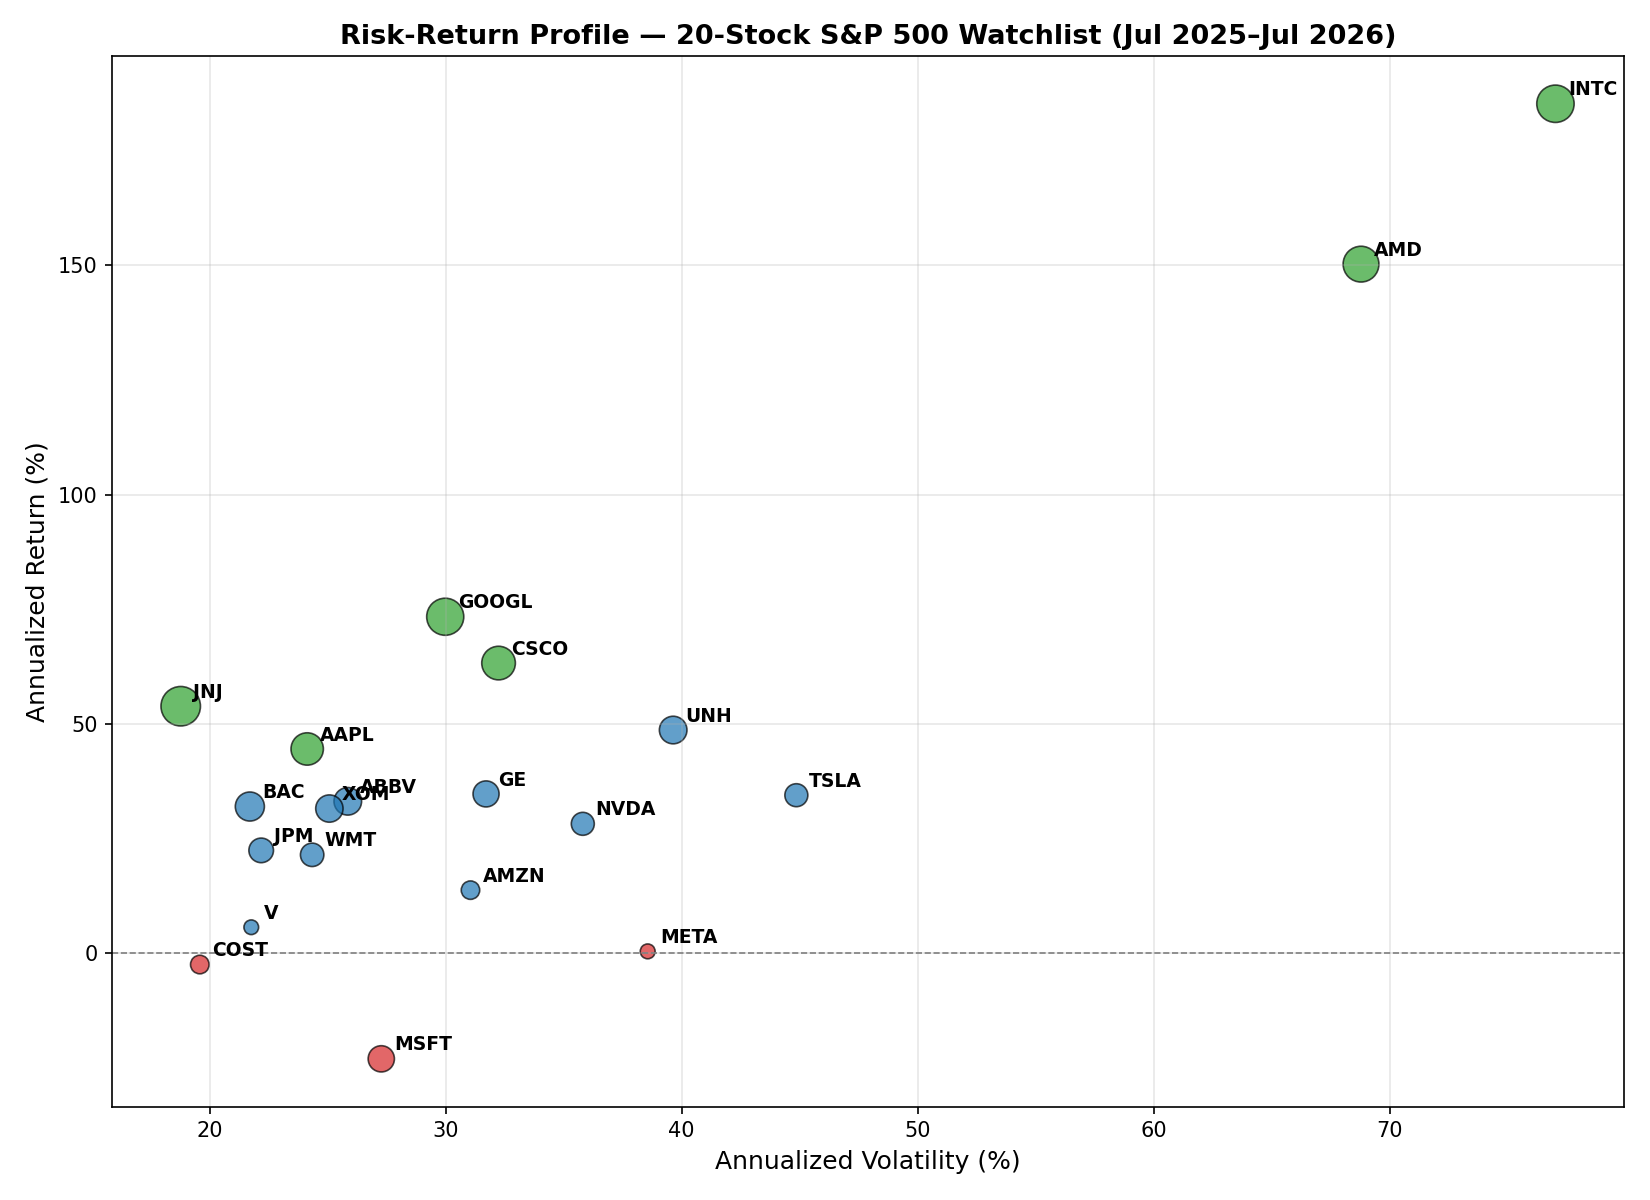
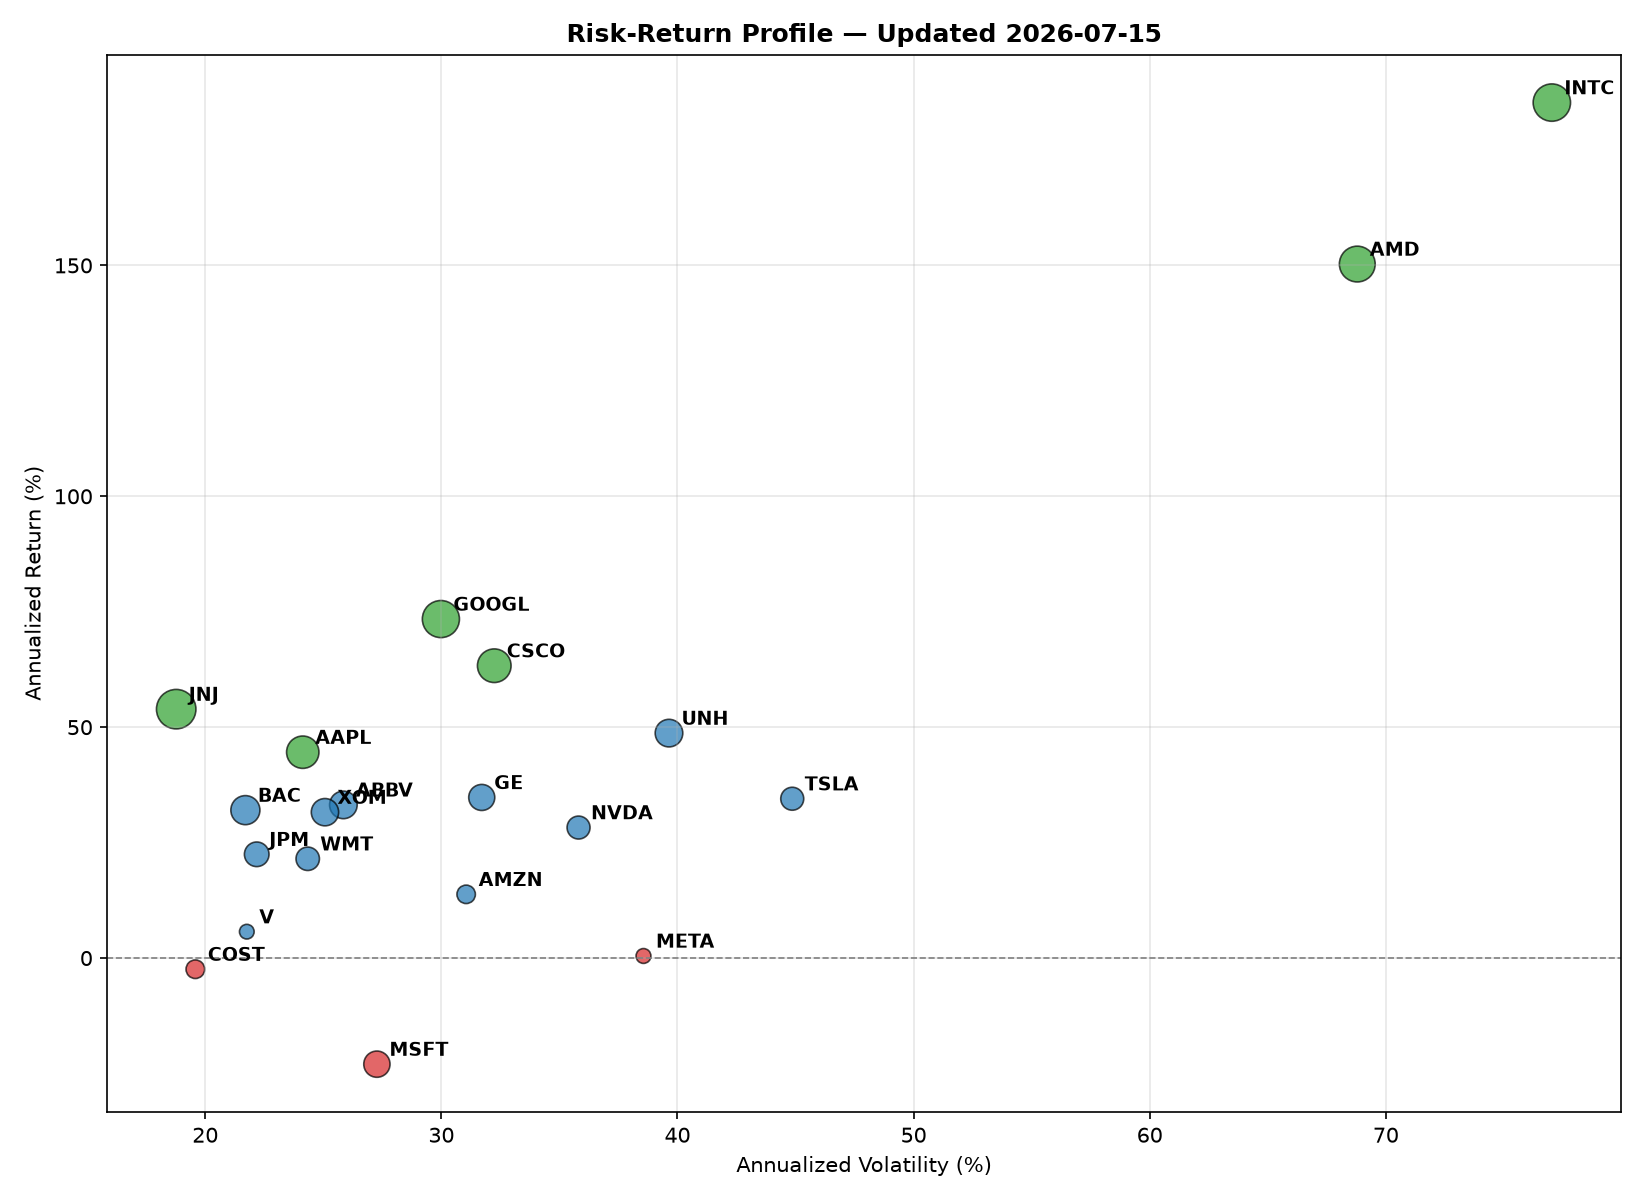
Automated daily update: prices, metrics, and charts

diff --git a/SNAPSHOT.md b/SNAPSHOT.md
@@ -1,0 +1,9 @@
+# Daily Risk Snapshot — 2026-07-14
+
+**Best mover:** INTC (+4.50%)
+**Worst mover:** CSCO (-1.81%)
+**Top risk-adjusted performer (trailing window):** JNJ (Sharpe 2.66)
+
+**No new anomaly flags today.**
+
+_Auto-generated by `scripts/daily_snapshot.py` via GitHub Actions._